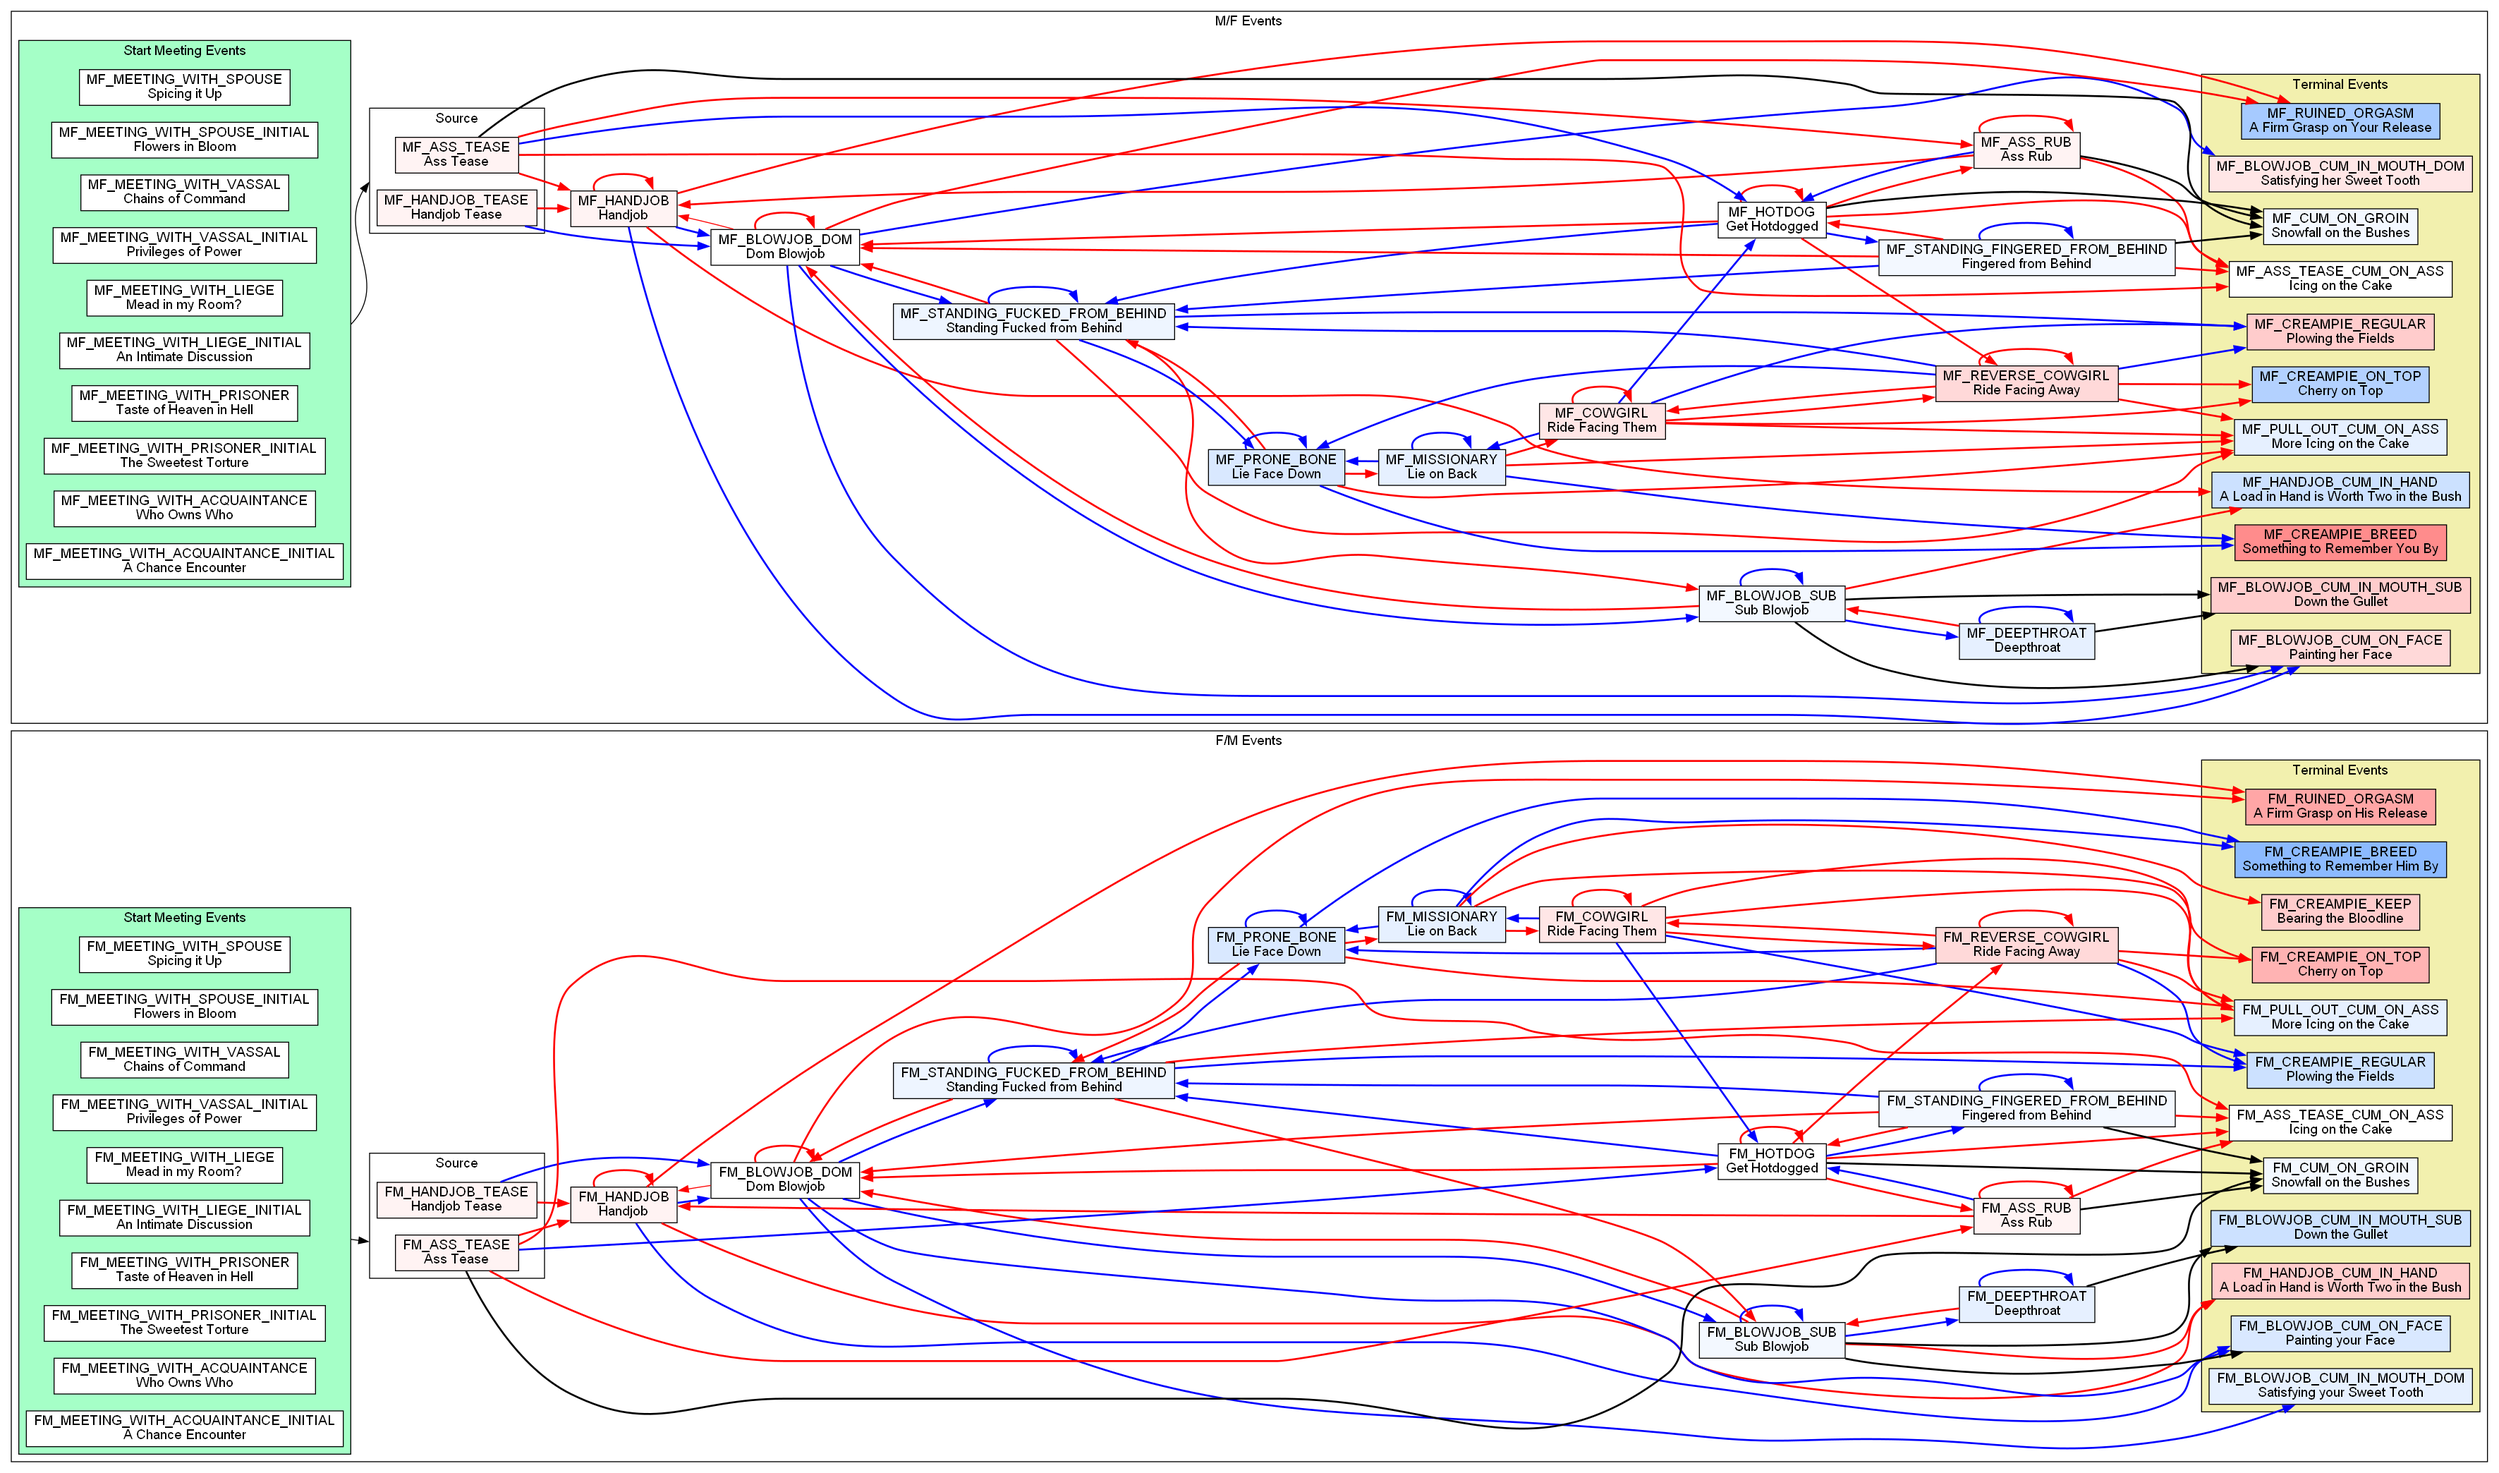
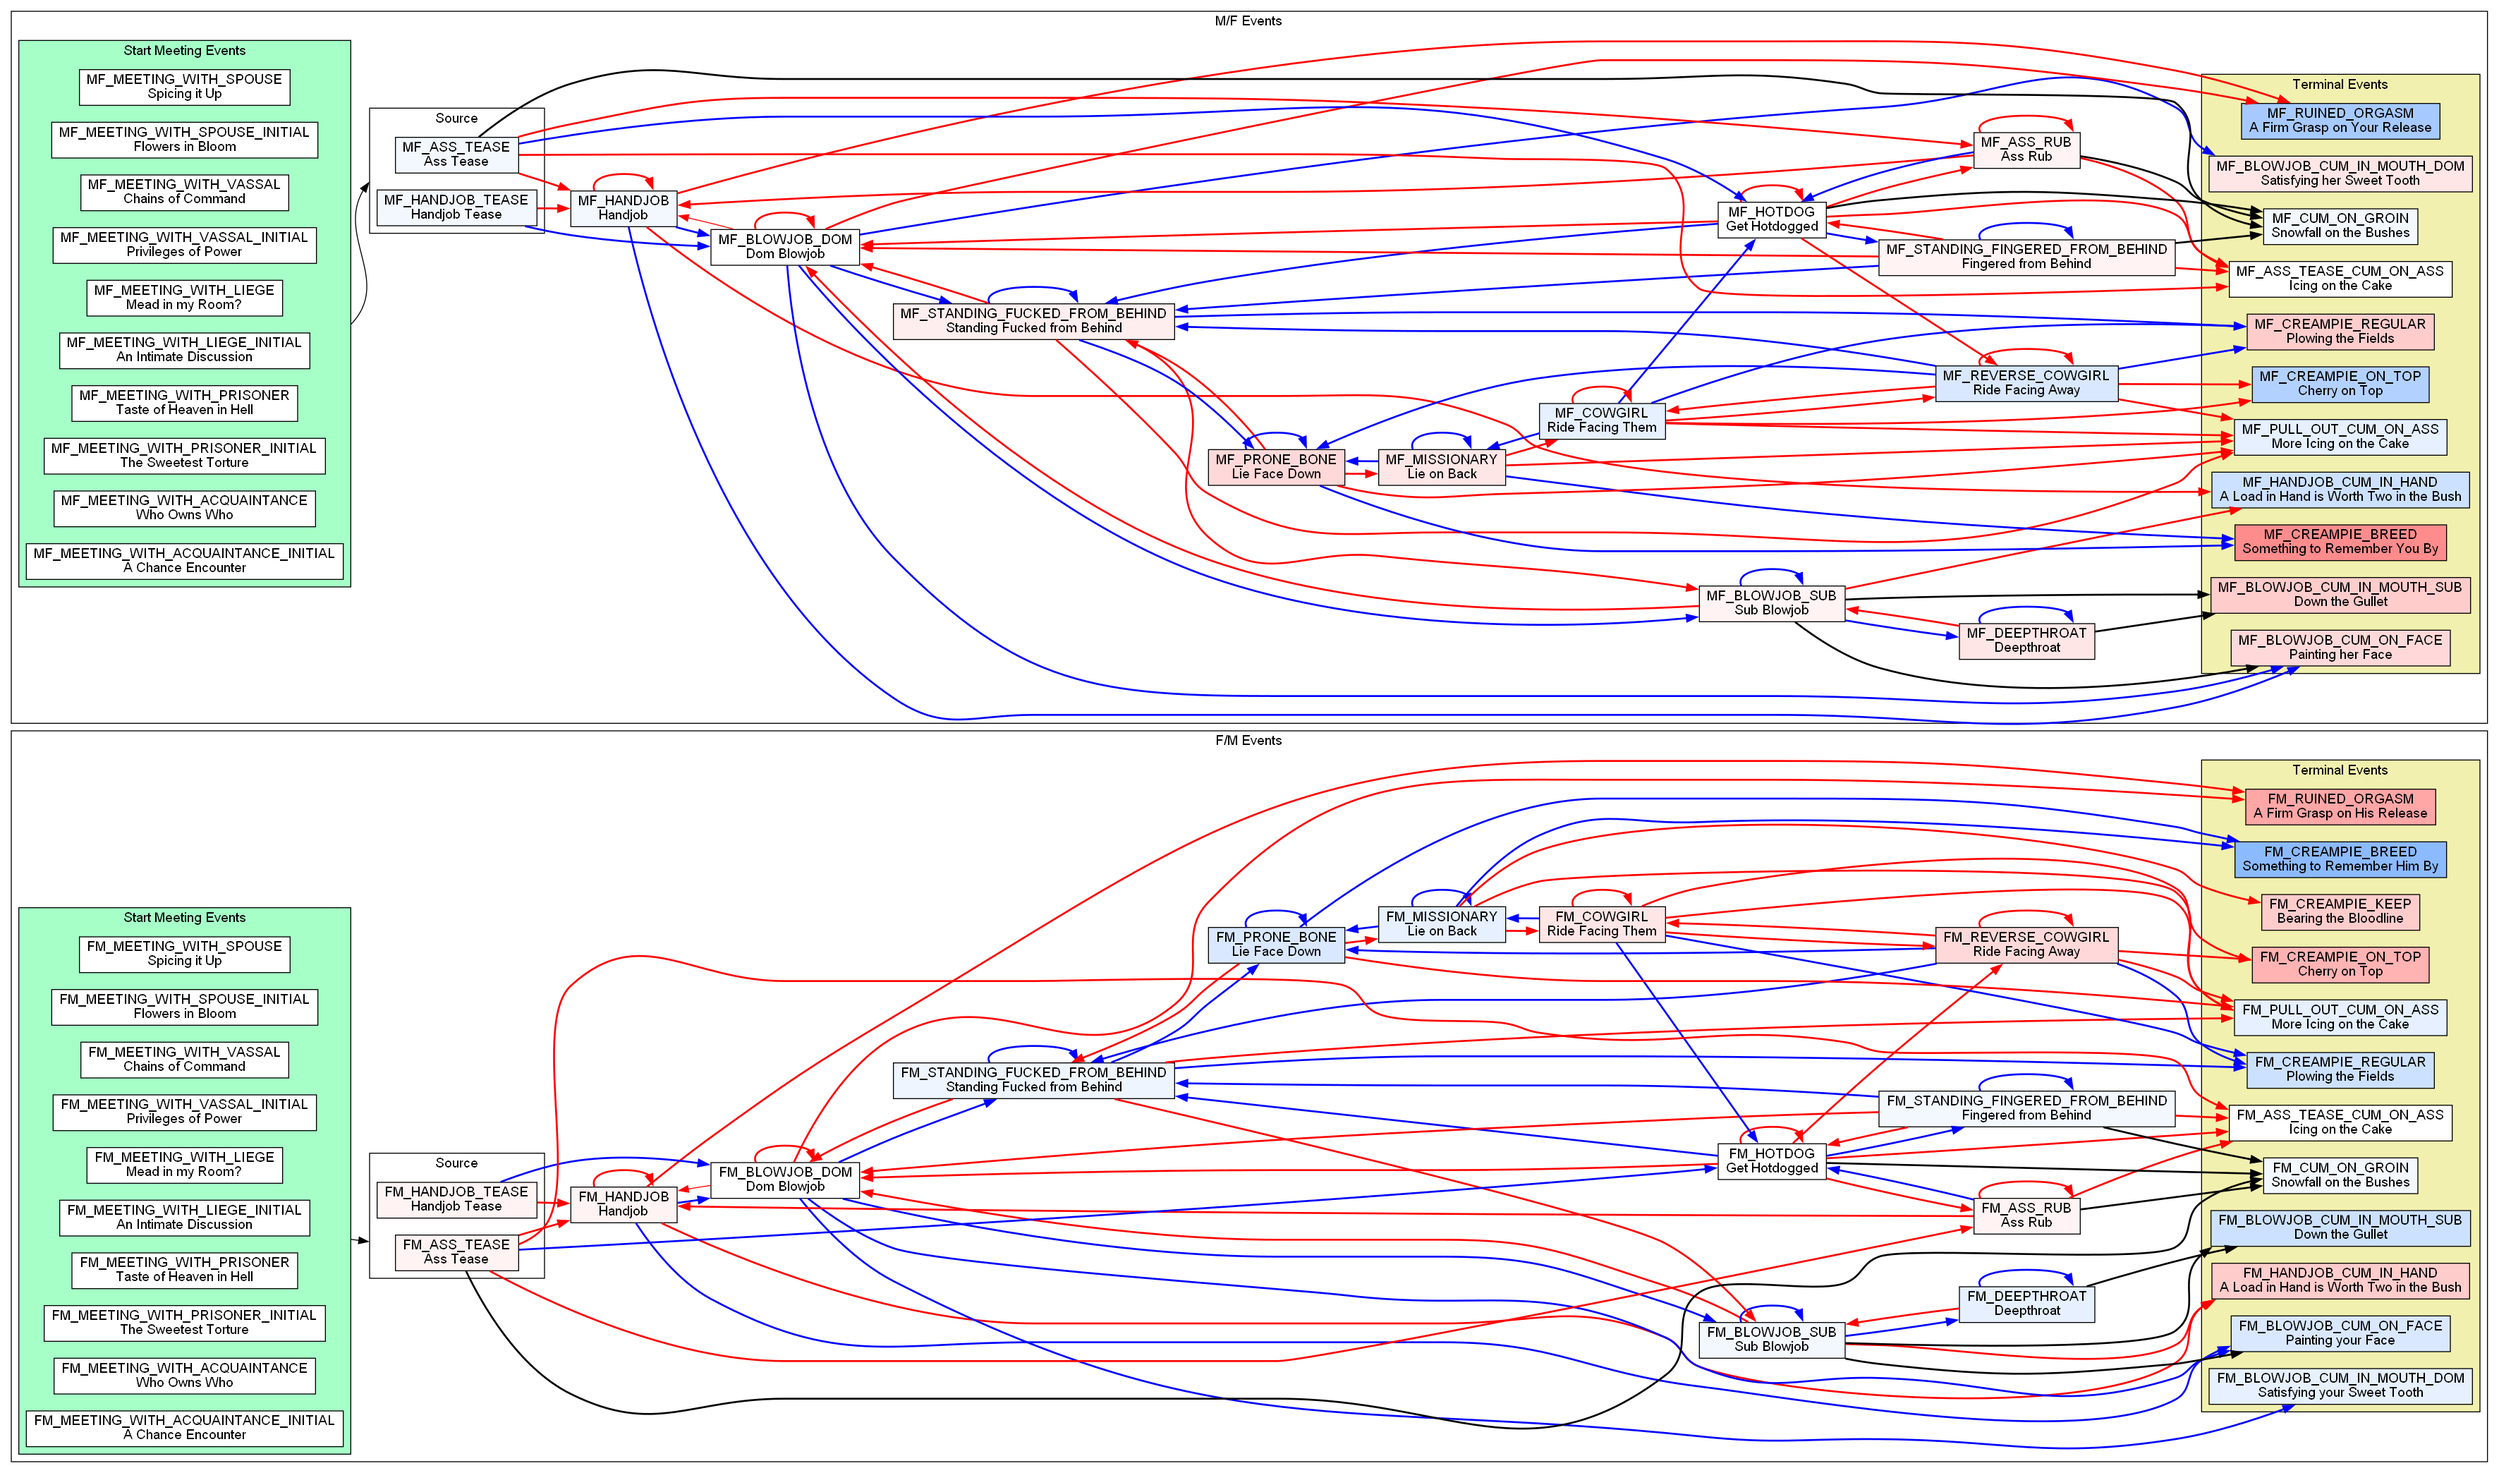
fix some MF logic

Changed region(s): [[0.4657, 0.249, 0.683, 0.3424], [0.7762, 0.4047, 0.8383, 0.467], [0.7762, 0.249, 0.8693, 0.2802]]

diff --git a/generate_events.py b/generate_events.py
@@ -2128,9 +2128,9 @@ def define_sex_events(es: EventMap):
     es.add(Sex(EventsSex.MF_HANDJOB_TEASE, "Handjob Tease",
                stam_cost_1=1, stam_cost_2=0,
                root_gender = MALE, partner_gender = FEMALE,
-               root_become_more_dom_chance=5,
-               partner_removes_clothes=True,
-               animation_left=IDLE, animation_right=PERSONALITY_CONTENT,
+               root_become_more_sub_chance=5,
+               root_removes_clothes=True,
+               animation_left=PERSONALITY_CONTENT, animation_right=IDLE,
                desc=f"""
                With a knowing smirk, you size {THEM} up and put both your hands on their chest.
                Leveraging your weight, you push and trap him against a wall. You slide your knee up his leg 
@@ -2156,8 +2156,8 @@ def define_sex_events(es: EventMap):
     es.add(Sex(EventsSex.MF_HANDJOB, "Handjob",
                stam_cost_1=-1, stam_cost_2=0.5,
                root_gender = MALE, partner_gender = FEMALE,
-               root_become_more_dom_chance=5,
-               partner_removes_clothes=True,
+               root_become_more_sub_chance=5,
+               root_removes_clothes=True,
                desc=f"""
                {THEM}'s eyes are closed and you smirk at your total control of his pleasure.
                You experiment with your strokes, and delight at the immediate feedback on his face.""",
@@ -2203,8 +2203,8 @@ def define_sex_events(es: EventMap):
     es.add(Sex(EventsSex.MF_BLOWJOB_DOM, "Dom Blowjob",
                stam_cost_1=2, stam_cost_2=0.5,
                root_gender = MALE, partner_gender = FEMALE,
-               partner_removes_clothes=True,
-               animation_left=KNEEL_RULER_3,
+               root_removes_clothes=True,
+               animation_right=KNEEL_RULER_3,
                desc=f"""
                You tease his shaft with your tongue, leaving him yearning for your mouth's full commitment.
                In this position of power and control over his pleasure, you deny him any movement with his hands.""",
@@ -2266,9 +2266,9 @@ def define_sex_events(es: EventMap):
     es.add(Sex(EventsSex.MF_BLOWJOB_SUB, "Sub Blowjob",
                stam_cost_1=1.5, stam_cost_2=1.0,
                root_gender = MALE, partner_gender = FEMALE,
-               root_become_more_sub_chance=5,
-               partner_removes_clothes=True,
-               animation_left=KNEEL_RULER_3,
+               root_become_more_dom_chance=5,
+               root_removes_clothes=True,
+               animation_right=KNEEL_RULER_3,
                desc=f"""
                With your tongue out, your mouth receives {THEM}'s rhythmic thrusts. His hands behind
                your head prevent you from instinctively pulling away, making you feel self conscious about
@@ -2314,9 +2314,9 @@ def define_sex_events(es: EventMap):
     es.add(Sex(EventsSex.MF_DEEPTHROAT, "Deepthroat",
                stam_cost_1=2.0, stam_cost_2=1.0,
                root_gender = MALE, partner_gender = FEMALE,
-               root_become_more_sub_chance=10,
-               partner_removes_clothes=True,
-               animation_left=KNEEL_2,
+               root_become_more_dom_chance=10,
+               root_removes_clothes=True,
+               animation_right=KNEEL_2,
                desc=ComposedDesc("""
                Your eyes tear up as he thrusts deeply and relentlessly. The degrading way in which he
                gives not care about your well-being or pleasure leaves a deep impression on you.""",
@@ -2351,7 +2351,7 @@ def define_sex_events(es: EventMap):
     es.add(Sex(EventsSex.MF_ASS_TEASE, "Ass Tease",
                stam_cost_1=0.75, stam_cost_2=0.5,
                root_gender = MALE, partner_gender = FEMALE,
-               root_become_more_dom_chance=5,
+               root_become_more_sub_chance=5,
                root_removes_clothes=True, partner_removes_clothes=True,
                desc=f"""
                Looking into {THEM}'s leering eyes, you can see his desire to have you.
@@ -2506,9 +2506,9 @@ def define_sex_events(es: EventMap):
     es.add(Sex(EventsSex.MF_STANDING_FINGERED_FROM_BEHIND, "Fingered from Behind",
                stam_cost_1=0.5, stam_cost_2=-1,
                root_gender = MALE, partner_gender = FEMALE,
-               root_become_more_sub_chance=5,
+               root_become_more_dom_chance=5,
                root_removes_clothes=True,
-               animation_right=SCHADENFREUDE,
+               animation_left=SCHADENFREUDE,
                desc=f"""
                His finger #sub squelches against your wet folds#! as he extracts juices from your lower lips while
                extracting moans from your upper lips. Your head leans back and he occasionally takes the liberty
@@ -2554,9 +2554,9 @@ def define_sex_events(es: EventMap):
     es.add(Sex(EventsSex.MF_STANDING_FUCKED_FROM_BEHIND, "Standing Fucked from Behind",
                stam_cost_1=1.5, stam_cost_2=2,
                root_gender = MALE, partner_gender = FEMALE,
-               root_become_more_sub_chance=7,
+               root_become_more_dom_chance=7,
                root_removes_clothes=True, partner_removes_clothes=True,
-               animation_left=BOW_3, animation_right=SCHADENFREUDE,
+               animation_left=SCHADENFREUDE, animation_right=BOW_3,
                desc=ComposedDesc(f"""
                Sometimes bending you over and sometimes #sub pulling your hair to keep you upright#!, 
                you're at the mercy of {THEM}. His vigorous thrusts make you knees weak and you find it
@@ -2615,7 +2615,7 @@ def define_sex_events(es: EventMap):
     es.add(Sex(EventsSex.MF_REVERSE_COWGIRL, "Ride Facing Away",
                stam_cost_1=1.5, stam_cost_2=3,
                root_gender = MALE, partner_gender = FEMALE,
-               root_become_more_dom_chance=15,
+               root_become_more_sub_chance=15,
                root_removes_clothes=True, partner_removes_clothes=True,
                desc=ComposedDesc(f"""
                You close your eyes as your hips hungrily dance around {THEM}'s shaft, #bold shaking#! with pleasure.
@@ -2669,7 +2669,7 @@ def define_sex_events(es: EventMap):
     es.add(Sex(EventsSex.MF_COWGIRL, "Ride Facing Them",
                stam_cost_1=1.0, stam_cost_2=2.0,
                root_gender = MALE, partner_gender = FEMALE,
-               root_become_more_dom_chance=10,
+               root_become_more_sub_chance=10,
                root_removes_clothes=True, partner_removes_clothes=True,
                desc=ComposedDesc(f"""
                You look in {THEM}'s eyes as you vigorously ride, his member under your complete control as you focus exclusively on satisfying yourself. \\n
@@ -2724,7 +2724,7 @@ def define_sex_events(es: EventMap):
     es.add(Sex(EventsSex.MF_MISSIONARY, "Lie on Back",
                stam_cost_1=1.5, stam_cost_2=2,
                root_gender = MALE, partner_gender = FEMALE,
-               root_become_more_sub_chance=10,
+               root_become_more_dom_chance=10,
                animation_left=FLIRTATION_LEFT, animation_right=FLIRTATION_LEFT,
                root_removes_clothes=True, partner_removes_clothes=True,
                desc=ComposedDesc(f"""
@@ -2767,7 +2767,7 @@ def define_sex_events(es: EventMap):
     es.add(Sex(EventsSex.MF_PRONE_BONE, "Lie Face Down",
                stam_cost_1=2.5, stam_cost_2=3.5,
                root_gender = MALE, partner_gender = FEMALE,
-               root_become_more_sub_chance=15,
+               root_become_more_dom_chance=15,
                animation_left=FLIRTATION_LEFT, animation_right=FLIRTATION_LEFT,
                root_removes_clothes=True, partner_removes_clothes=True,
                desc=ComposedDesc(f"""
